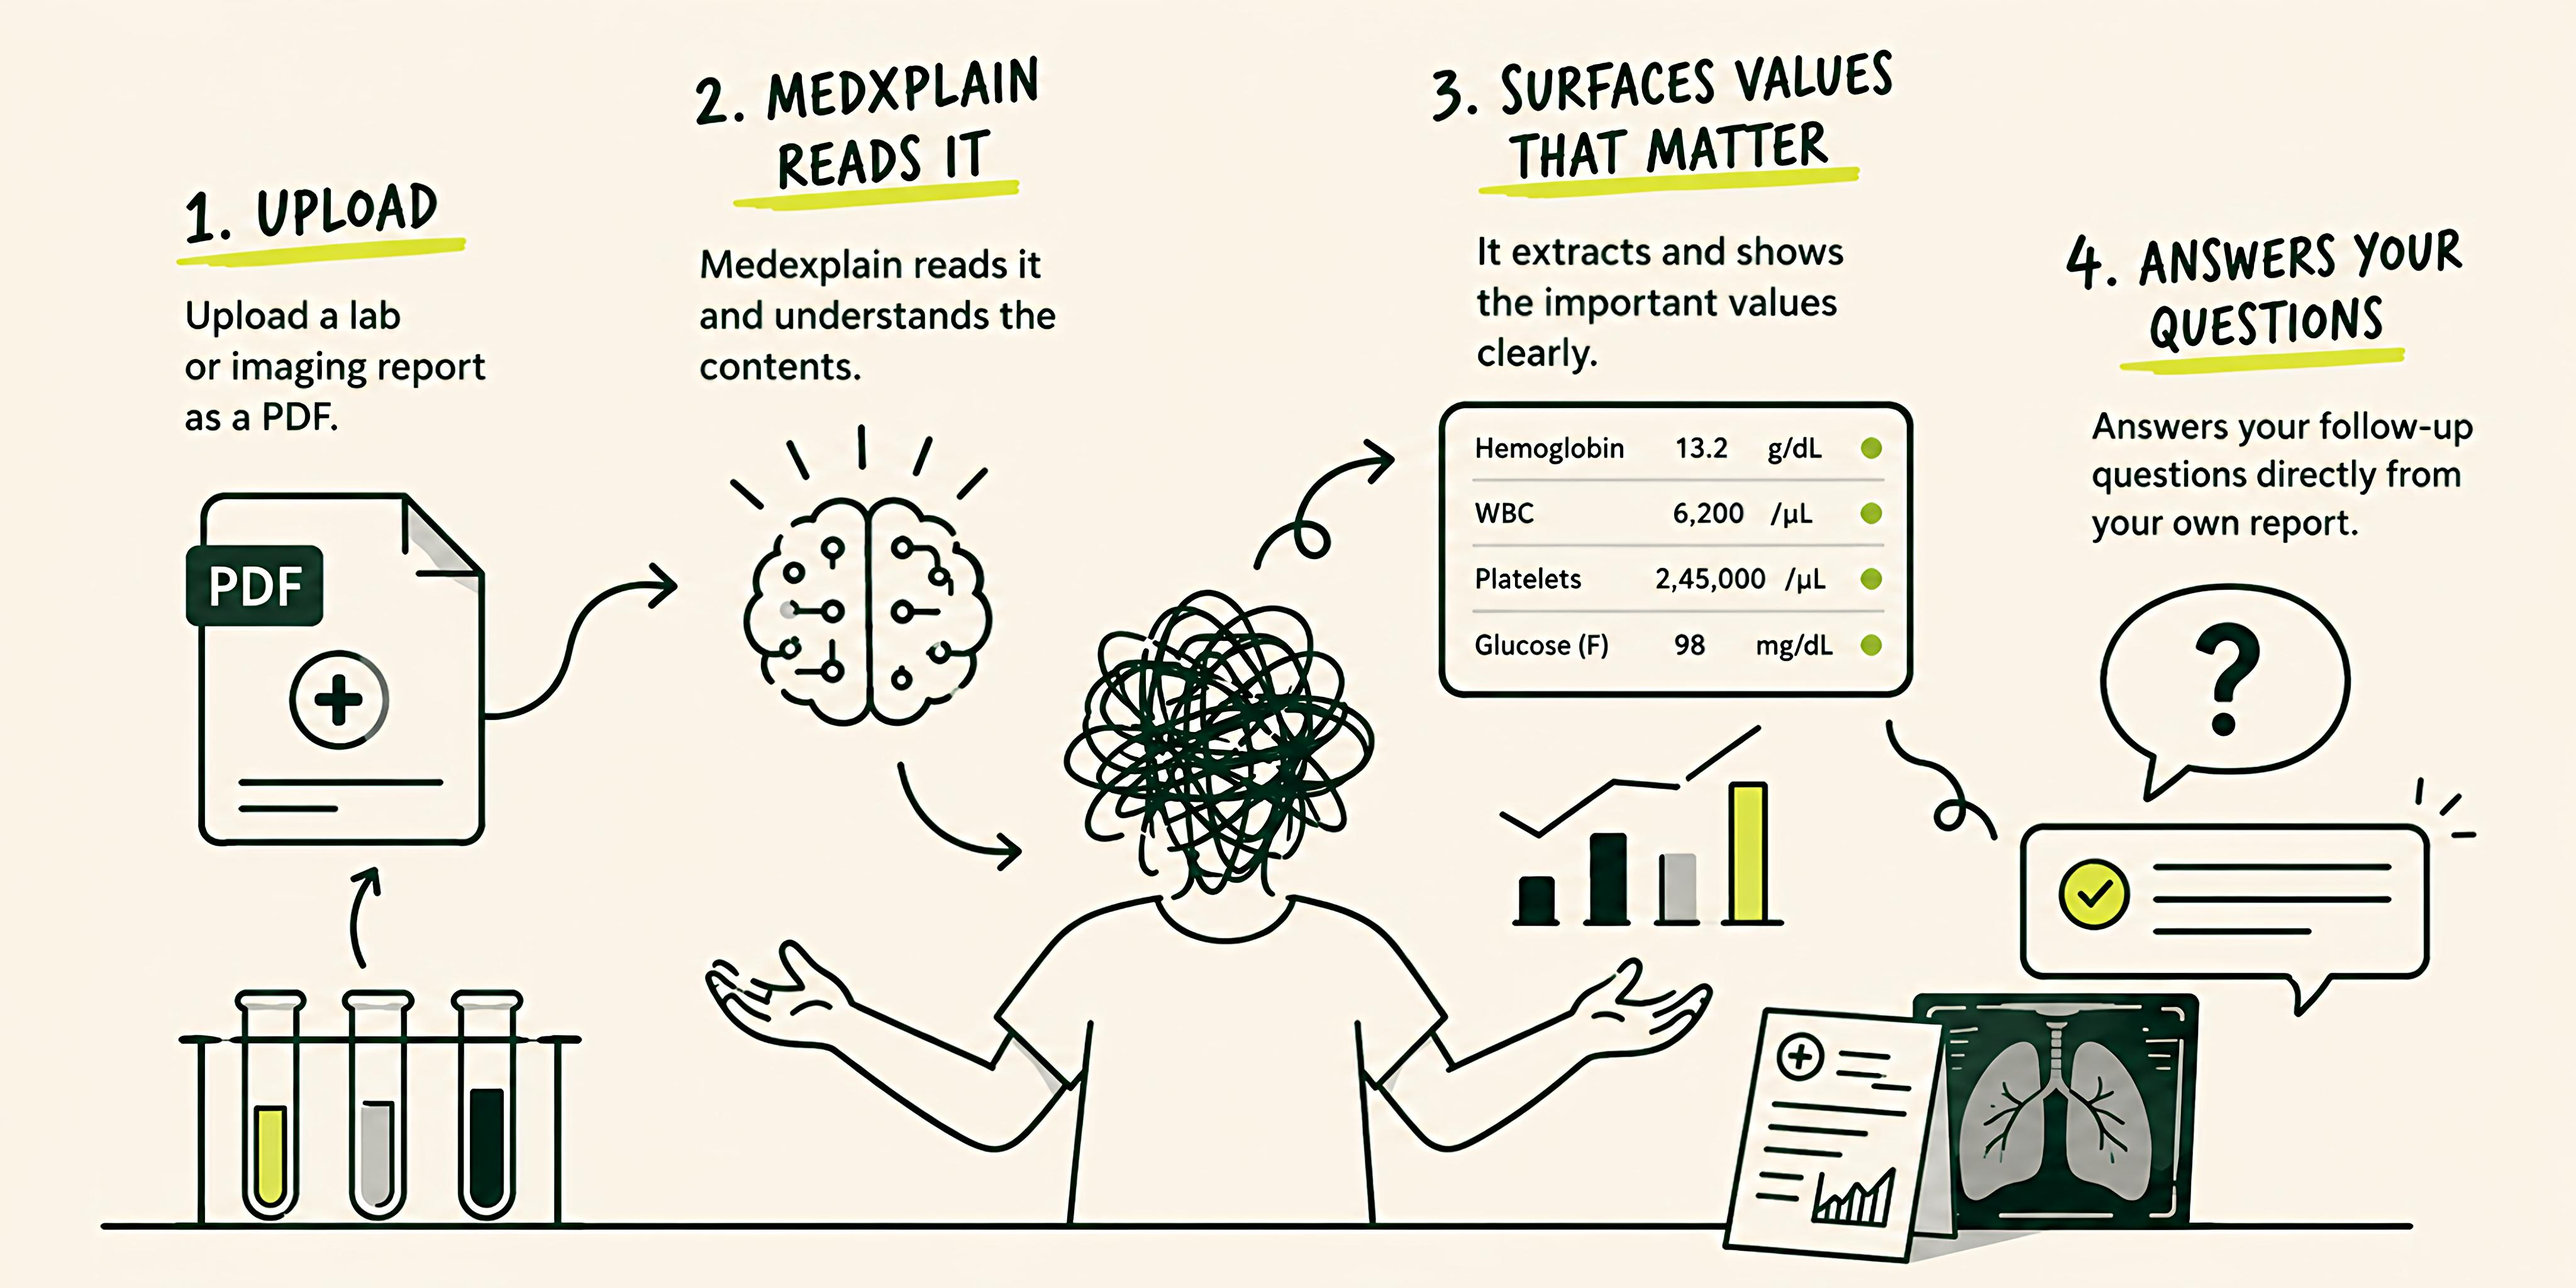
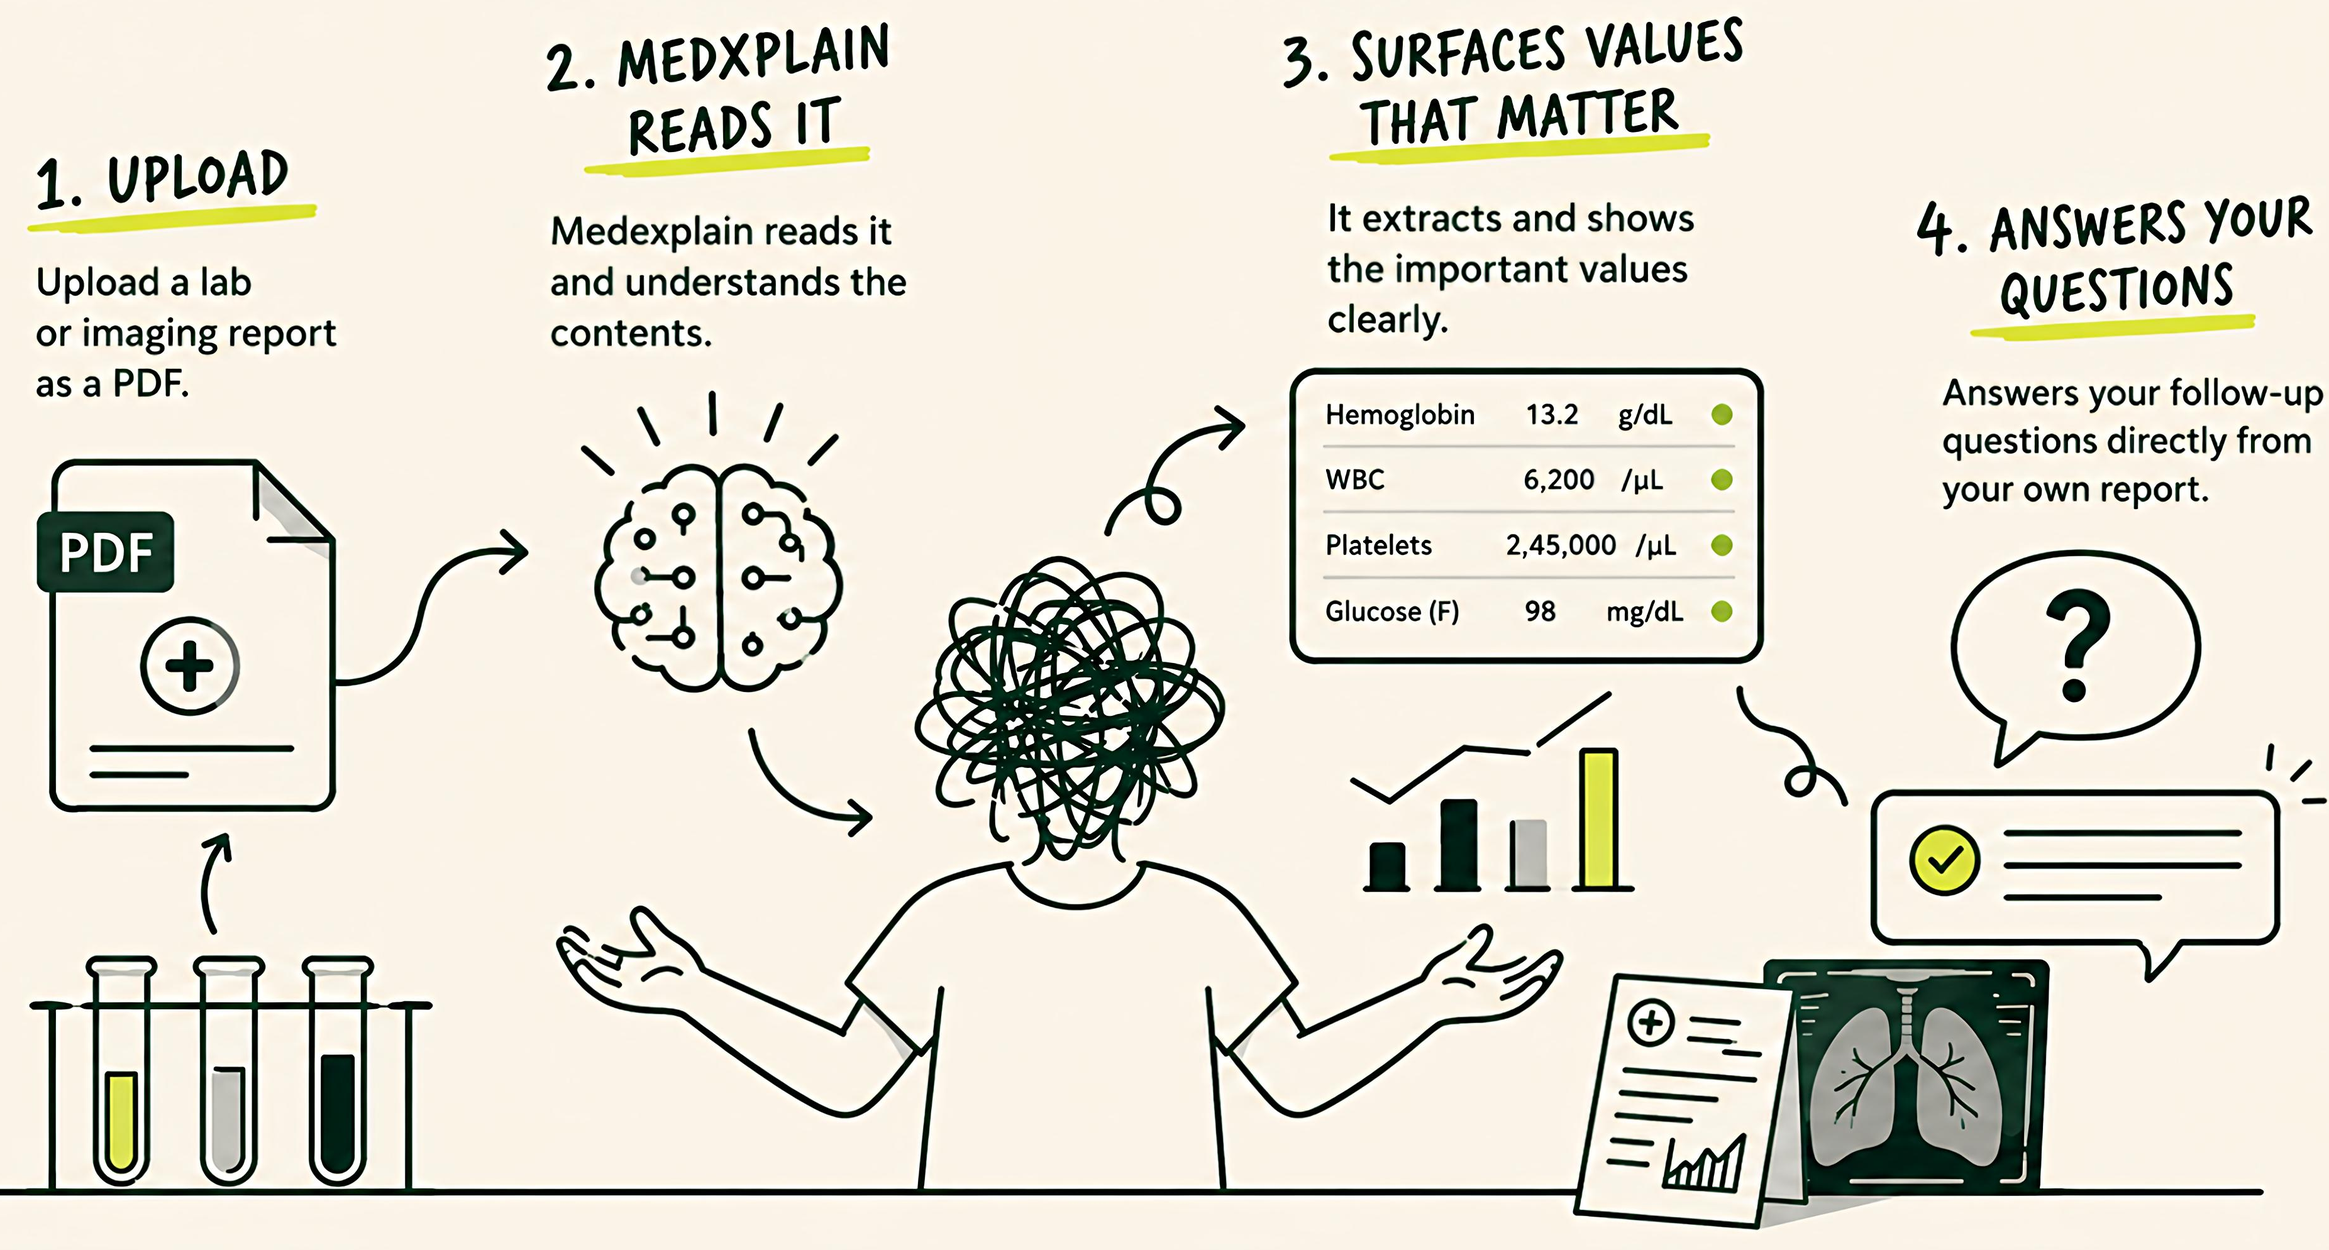
Crop hero illustration to remove dead space, fix object-cover cropping

Changed region(s): [[0.0, 0.0, 1.0, 0.9975], [0.3105, 0.5923, 0.3726, 0.6546], [0.3726, 0.6546, 0.4036, 0.6858]]

diff --git a/apps/frontend/app/page.tsx b/apps/frontend/app/page.tsx
@@ -42,13 +42,13 @@ export default function HomePage() {
         </p>
       </section>
 
-      <section className="w-full rounded-2xl overflow-hidden">
+      <section className="w-full max-h-[42vh] overflow-hidden rounded-2xl">
         <Image
           src="/hero-illustration.png"
           alt="How Medexplain works: upload, read, surface values, answer questions"
           width={1200}
-          height={630}
-          className="w-full h-auto"
+          height={751}
+          className="w-full h-full object-cover object-top"
           priority
         />
       </section>
